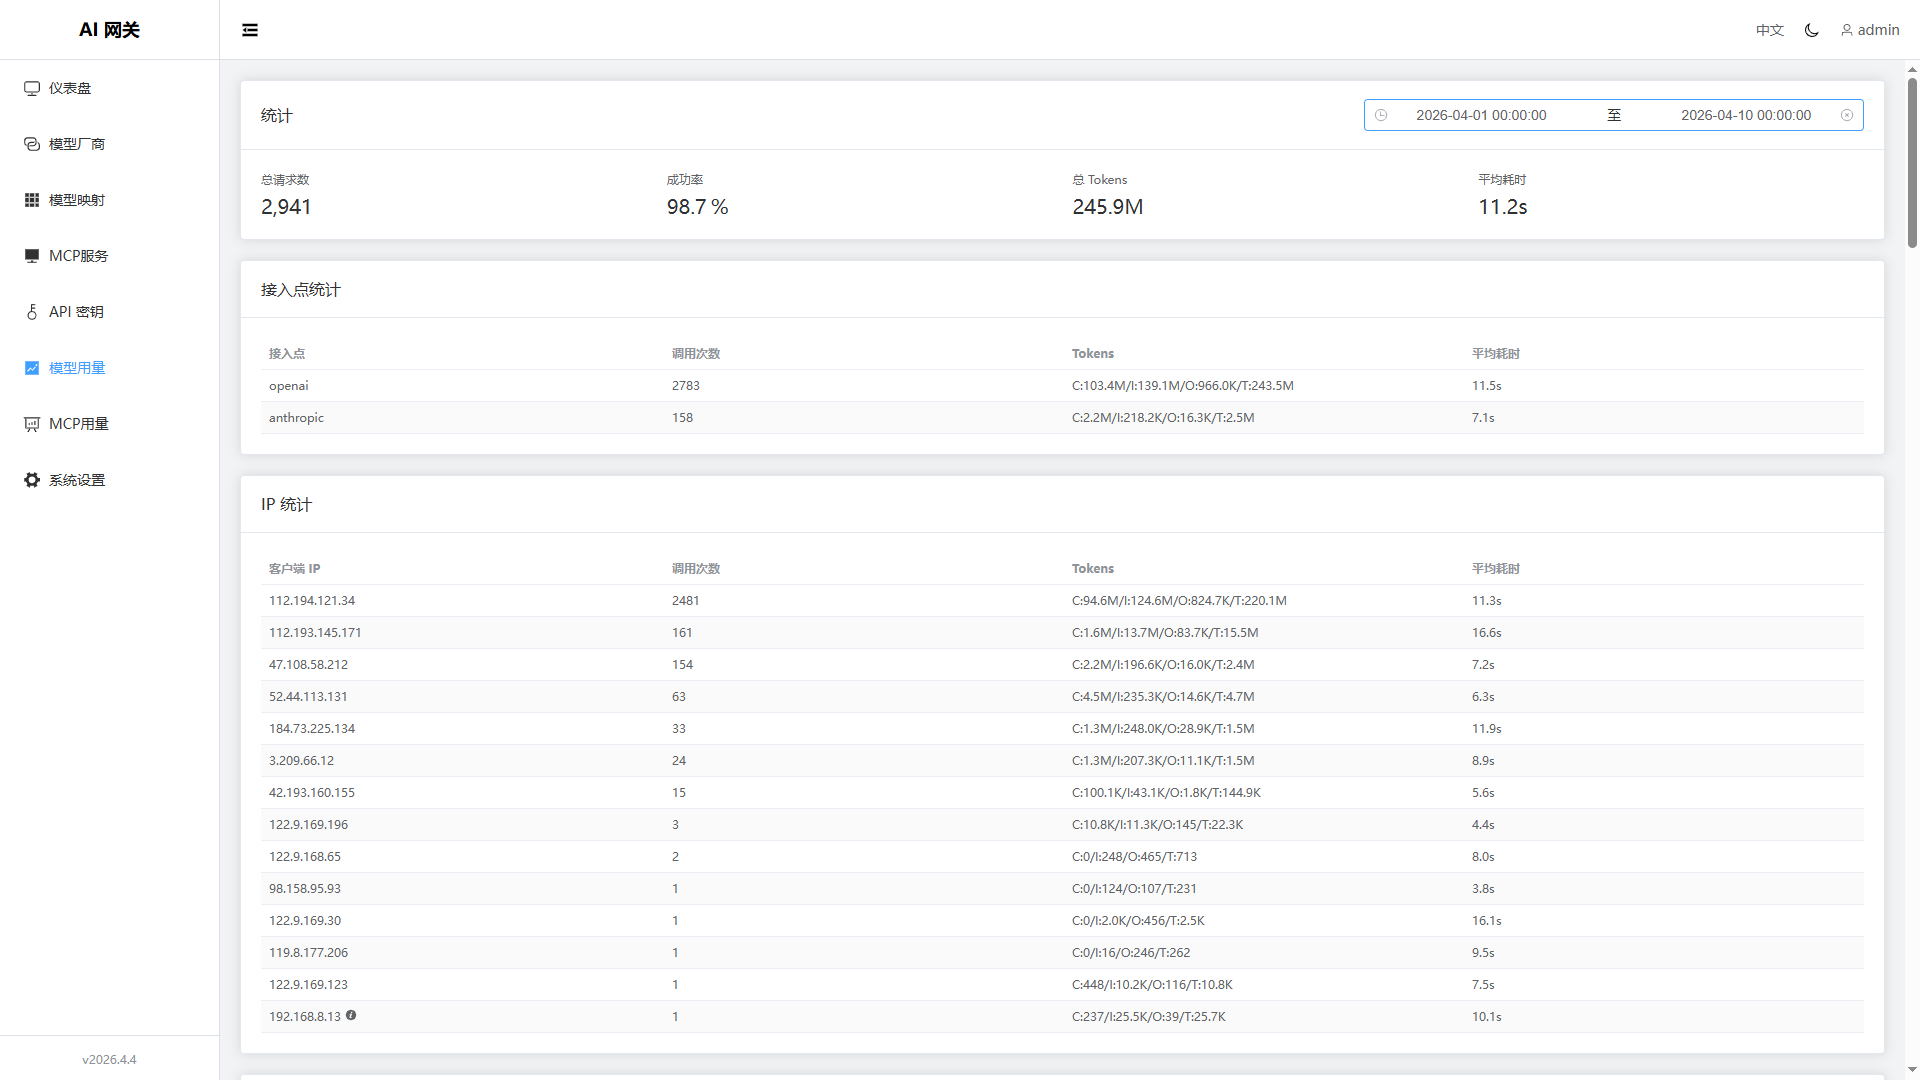
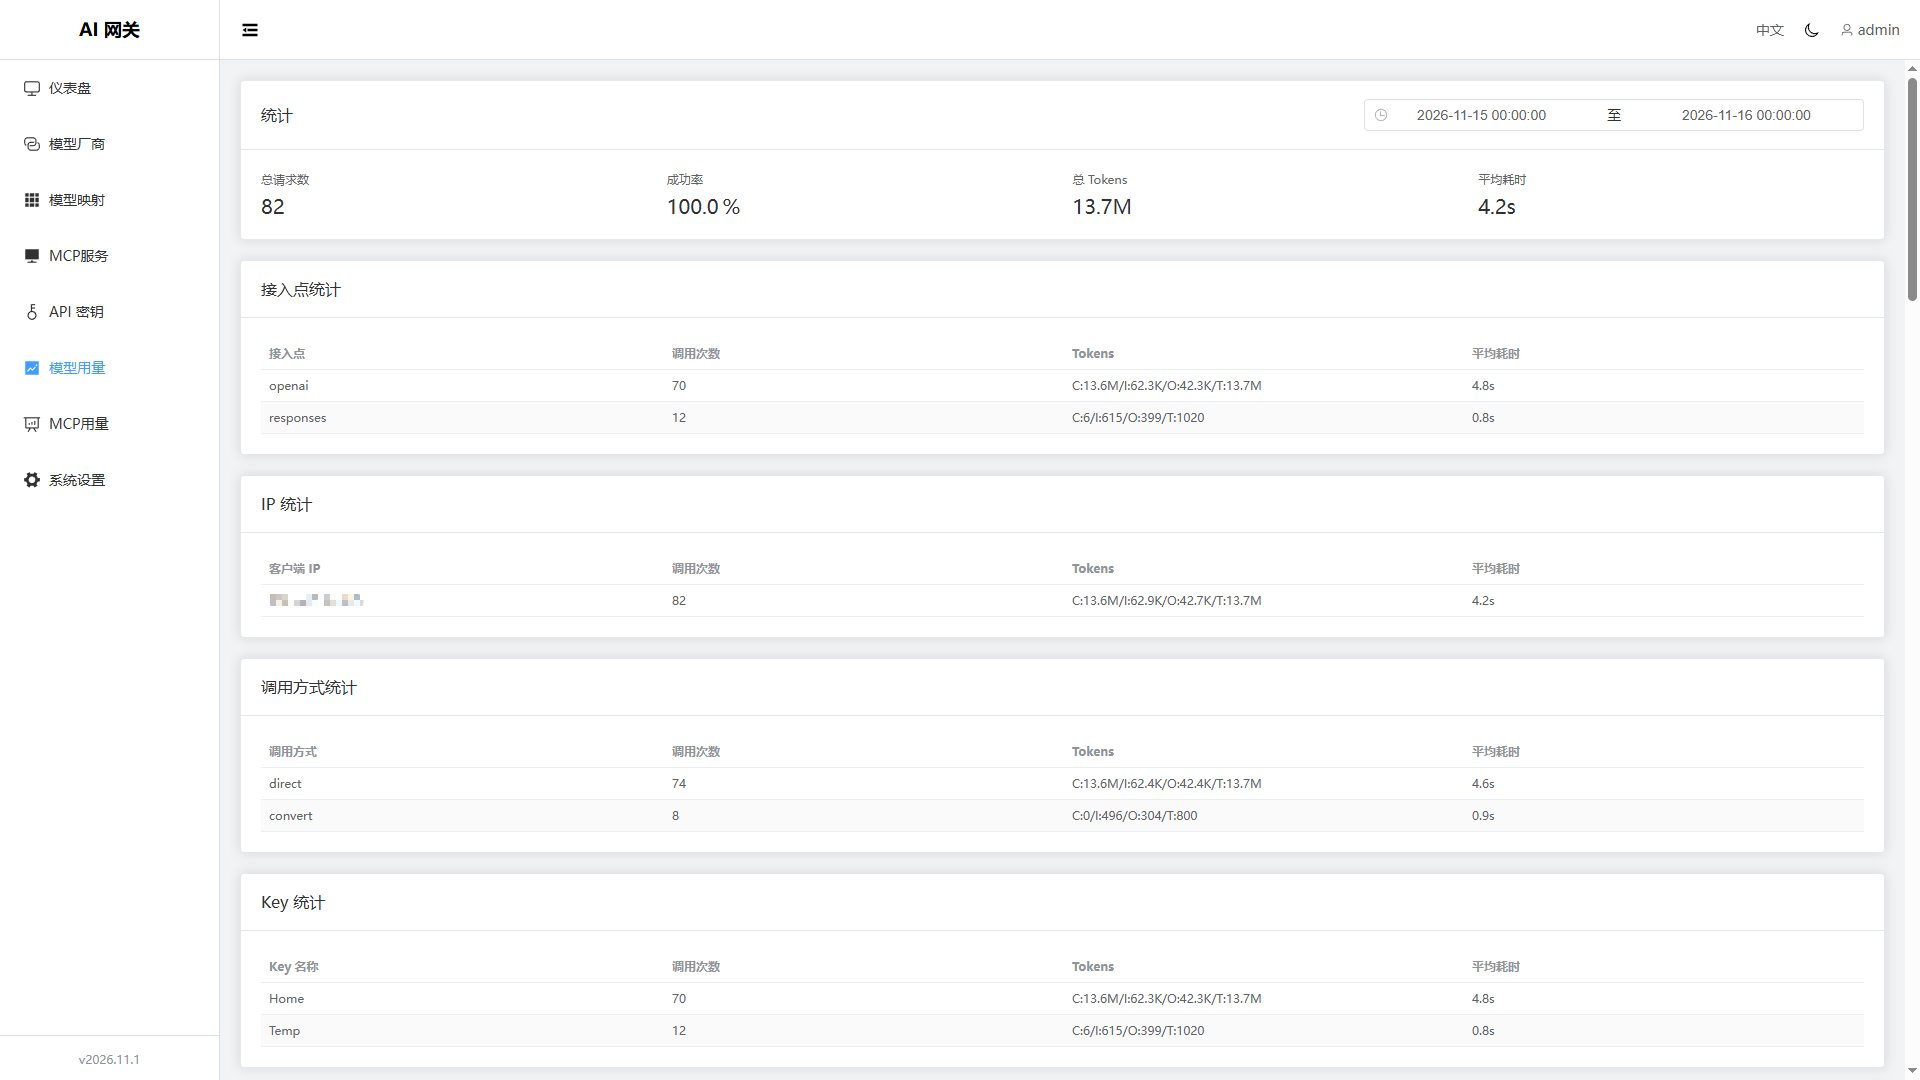
docs: 更新界面展示资源

diff --git a/README.md b/README.md
@@ -1,4 +1,5 @@
 # AI Gateway
+
 ---
 
 **此项目是作者学习大模型接口的副产物，最早的核心功能仅仅是实现 OpenAI/Anthropic API 的相互转换。**
@@ -26,13 +27,13 @@
 
 ## 外观
 
-| 仪表盘 | 厂商列表 | 厂商模型 | 模型映射 |
-| --- | --- | --- | --- |
-| ![仪表盘](images/仪表盘.png) | ![厂商列表](images/厂商列表.png) | ![厂商模型](images/厂商模型.png) | ![模型映射](images/模型映射.png) |
-| 秘钥管理 | 秘钥详情 | MCP服务 | MCP详情 |
-| ![秘钥管理](images/秘钥管理.png) | ![秘钥详情](images/秘钥详情.png) | ![MCP服务](images/MCP服务.png) | ![MCP详情](images/MCP详情.png) |
-| 模型用量-1 | 模型用量-2 | 模型用量-3 | MCP用量-1 |
-| ![模型用量_1](images/模型用量_1.png) | ![模型用量_2](images/模型用量_2.png) | ![模型用量_3](images/模型用量_3.png) | ![MCP用量_1](images/MCP用量_1.png) |
+| 仪表盘                               | 厂商列表                             | 厂商模型                           | 模型映射                           |
+| ------------------------------------ | ------------------------------------ | ---------------------------------- | ---------------------------------- |
+| ![仪表盘](images/仪表盘.png)         | ![厂商列表](images/厂商列表.png)     | ![厂商模型](images/厂商模型.png)   | ![模型映射](images/模型映射.png)   |
+| 秘钥管理                             | 秘钥详情                             | MCP服务                            | MCP详情                            |
+| ![秘钥管理](images/秘钥管理.png)     | ![秘钥详情](images/秘钥详情.png)     | ![MCP服务](images/MCP服务.png)     | ![MCP详情](images/MCP详情.png)     |
+| 模型用量-1                           | 模型用量-2                           | MCP用量-1                          | MCP用量-2                          |
+| ![模型用量_1](images/模型用量_1.png) | ![模型用量_2](images/模型用量_2.png) | ![MCP用量_1](images/MCP用量_1.png) | ![MCP用量_2](images/MCP用量_2.png) |
 
 ## 工作原理
 
@@ -166,9 +167,10 @@ make
 # 运行
 ai-gateway/server/bin/ai-gateway-server
 ```
+
 > 编译产物在 `ai-gateway/server/bin/ai-gateway-server`
 
-服务启动后访问 <http://localhost:18080>
+服务启动后访问 [http://localhost:18080](http://localhost:18080)
 
 ### 默认账号
 
@@ -216,33 +218,33 @@ auth:
 
 所有变量以 `AG_` 为前缀：
 
-| 变量名 | 默认值 | 说明 |
-|--------|--------|------|
-| `AG_DEBUG_GIN` | `false` | Gin 框架调试模式 |
-| `AG_DEBUG_GORM` | `false` | GORM SQL 调试日志 |
-| `AG_DEBUG_PROVIDER` | `false` | Provider 调试日志, 请求/响应记录到 `debug_provider/` 目录 |
-| `AG_DEBUG_MCP` | `false` | MCP 调试日志, 请求/响应记录到 `debug_mcp/` 目录 |
-| `AG_SERVER_PORT` | `18080` | 服务端口 |
-| `AG_SERVER_TRUSTED_PROXIES` | `10.0.0.0/8,192.168.0.0/16,172.16.0.0/12` | 信任的代理IP CIDR范围（逗号分隔），用于获取真实客户端IP |
-| `AG_PPROF_PORT` | `6060` | Pprof 性能分析端口 |
-| `AG_DATABASE_TYPE` | `sqlite` | 数据库类型 (sqlite/postgres) |
-| `AG_DATABASE_PATH` | `data.db` | SQLite 数据库路径 |
-| `AG_DATABASE_HOST` | `localhost` | PostgreSQL 服务器地址 |
-| `AG_DATABASE_PORT` | `5432` | PostgreSQL 服务器端口 |
-| `AG_DATABASE_USERNAME` | `postgres` | PostgreSQL 用户名 |
-| `AG_DATABASE_PASSWORD` | `""` | PostgreSQL 密码 |
-| `AG_DATABASE_DBNAME` | `ai_gateway` | PostgreSQL 数据库名 |
-| `AG_DATABASE_POOL_MAX_OPEN` | `20` (SQLite: `1`) | 数据库最大连接数 |
-| `AG_DATABASE_POOL_MAX_IDLE` | `5` (SQLite: `1`) | 数据库最大空闲连接数 |
-| `AG_DATABASE_POOL_MAX_LIFETIME` | `1h` | 连接最大生命周期 |
-| `AG_DATABASE_POOL_MAX_IDLE_TIME` | `5m` | 空闲连接最大存活时间 |
-| `AG_SERVER_SESSION_SECRET` | (自动生成) | Session 密钥，未设置时自动生成 |
-| `AG_SERVER_SESSION_MAX_AGE` | `86400` | Session 有效期(秒) |
-| `AG_SERVER_SESSION_SECURE` | `false` | Cookie Secure 标志 |
-| `AG_SERVER_SESSION_HTTP_ONLY` | `true` | Cookie HttpOnly 标志 |
-| `AG_SERVER_SESSION_SAME_SITE` | `lax` | Cookie SameSite 属性 |
-| `AG_ADMIN_USERNAME` | `admin` | 默认管理员用户名 |
-| `AG_ADMIN_PASSWORD` | `admin` | 默认管理员密码 |
+| 变量名                             | 默认值                                      | 说明                                                        |
+| ---------------------------------- | ------------------------------------------- | ----------------------------------------------------------- |
+| `AG_DEBUG_GIN`                   | `false`                                   | Gin 框架调试模式                                            |
+| `AG_DEBUG_GORM`                  | `false`                                   | GORM SQL 调试日志                                           |
+| `AG_DEBUG_PROVIDER`              | `false`                                   | Provider 调试日志, 请求/响应记录到 `debug_provider/` 目录 |
+| `AG_DEBUG_MCP`                   | `false`                                   | MCP 调试日志, 请求/响应记录到 `debug_mcp/` 目录           |
+| `AG_SERVER_PORT`                 | `18080`                                   | 服务端口                                                    |
+| `AG_SERVER_TRUSTED_PROXIES`      | `10.0.0.0/8,192.168.0.0/16,172.16.0.0/12` | 信任的代理IP CIDR范围（逗号分隔），用于获取真实客户端IP     |
+| `AG_PPROF_PORT`                  | `6060`                                    | Pprof 性能分析端口                                          |
+| `AG_DATABASE_TYPE`               | `sqlite`                                  | 数据库类型 (sqlite/postgres)                                |
+| `AG_DATABASE_PATH`               | `data.db`                                 | SQLite 数据库路径                                           |
+| `AG_DATABASE_HOST`               | `localhost`                               | PostgreSQL 服务器地址                                       |
+| `AG_DATABASE_PORT`               | `5432`                                    | PostgreSQL 服务器端口                                       |
+| `AG_DATABASE_USERNAME`           | `postgres`                                | PostgreSQL 用户名                                           |
+| `AG_DATABASE_PASSWORD`           | `""`                                      | PostgreSQL 密码                                             |
+| `AG_DATABASE_DBNAME`             | `ai_gateway`                              | PostgreSQL 数据库名                                         |
+| `AG_DATABASE_POOL_MAX_OPEN`      | `20` (SQLite: `1`)                      | 数据库最大连接数                                            |
+| `AG_DATABASE_POOL_MAX_IDLE`      | `5` (SQLite: `1`)                       | 数据库最大空闲连接数                                        |
+| `AG_DATABASE_POOL_MAX_LIFETIME`  | `1h`                                      | 连接最大生命周期                                            |
+| `AG_DATABASE_POOL_MAX_IDLE_TIME` | `5m`                                      | 空闲连接最大存活时间                                        |
+| `AG_SERVER_SESSION_SECRET`       | (自动生成)                                  | Session 密钥，未设置时自动生成                              |
+| `AG_SERVER_SESSION_MAX_AGE`      | `86400`                                   | Session 有效期(秒)                                          |
+| `AG_SERVER_SESSION_SECURE`       | `false`                                   | Cookie Secure 标志                                          |
+| `AG_SERVER_SESSION_HTTP_ONLY`    | `true`                                    | Cookie HttpOnly 标志                                        |
+| `AG_SERVER_SESSION_SAME_SITE`    | `lax`                                     | Cookie SameSite 属性                                        |
+| `AG_ADMIN_USERNAME`              | `admin`                                   | 默认管理员用户名                                            |
+| `AG_ADMIN_PASSWORD`              | `admin`                                   | 默认管理员密码                                              |
 
 #### 从旧版本升级（BaseURL 列改名）
 
@@ -504,8 +506,8 @@ ai-gateway/
 ## 开发
 
 1. 安装 `Go` 和 `Node.js`
-1. 安装编译工具链: `sudo apt install make gcc`
-1. 在 `Linux` 下交叉编译 `WIndows` 二进制文件需要安装编译工具链: `sudo apt install mingw-w64`
+2. 安装编译工具链: `sudo apt install make gcc`
+3. 在 `Linux` 下交叉编译 `WIndows` 二进制文件需要安装编译工具链: `sudo apt install mingw-w64`
 
 ### 整体构建
 
